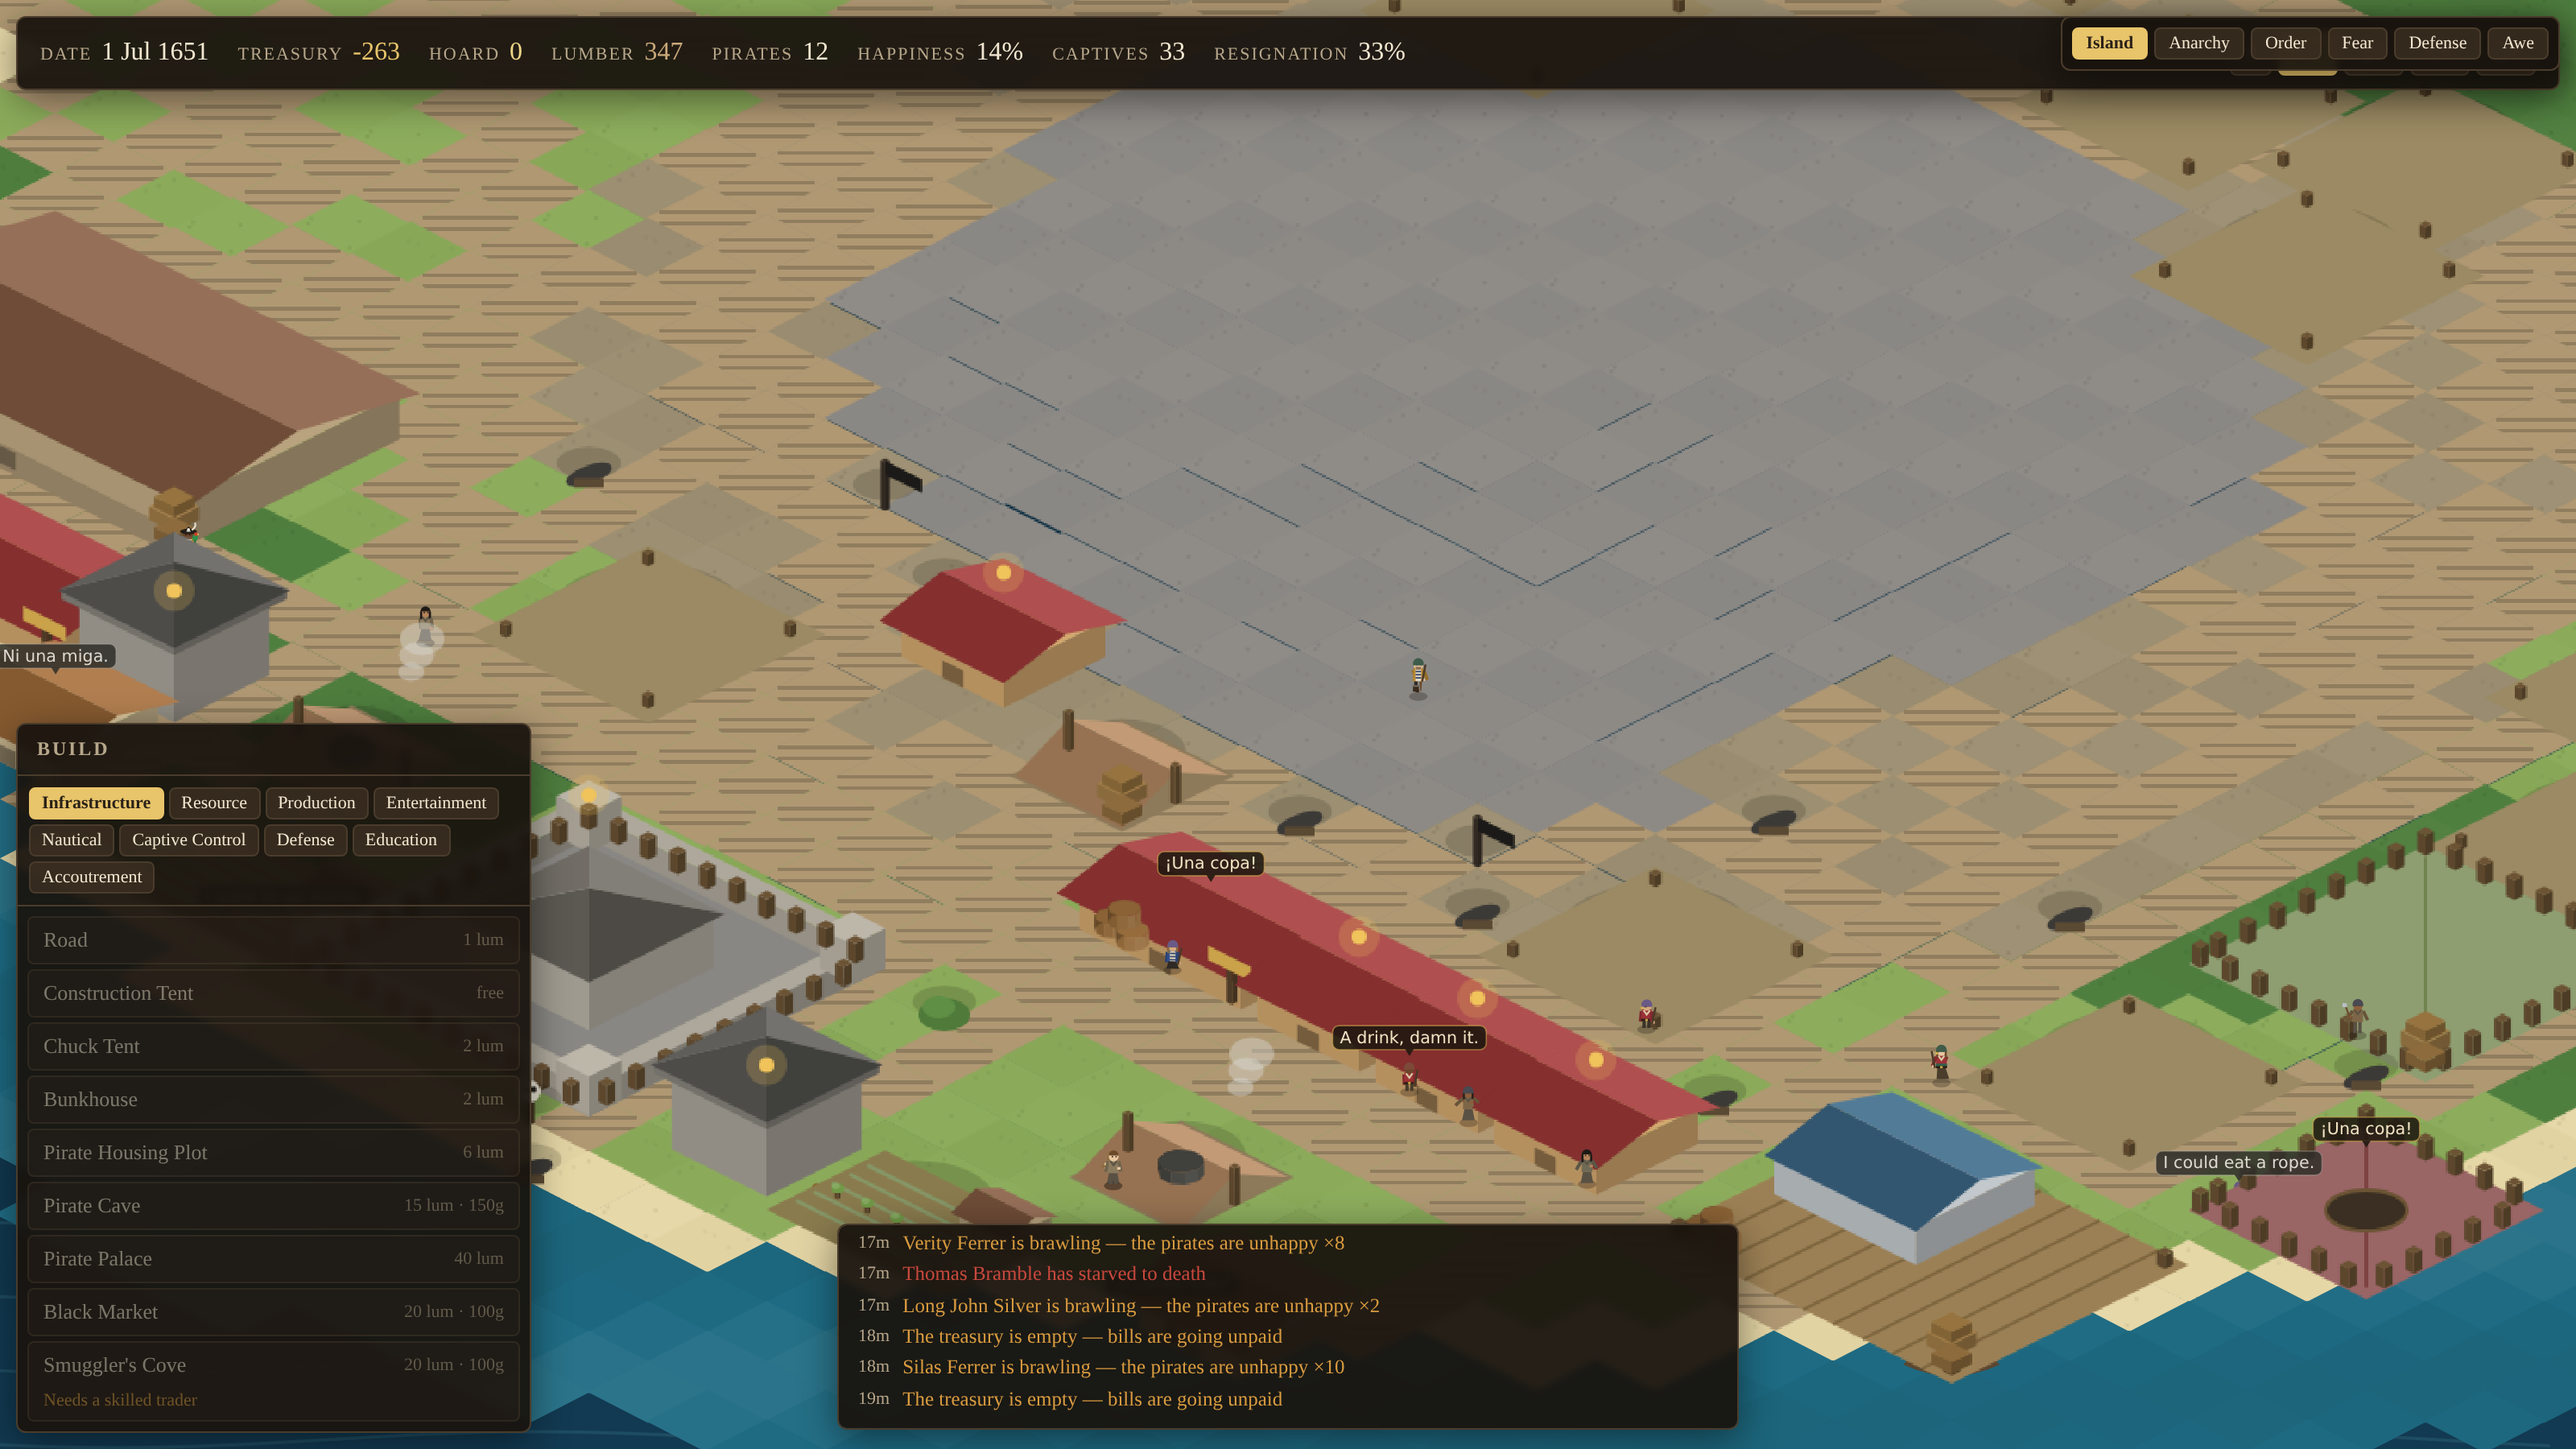
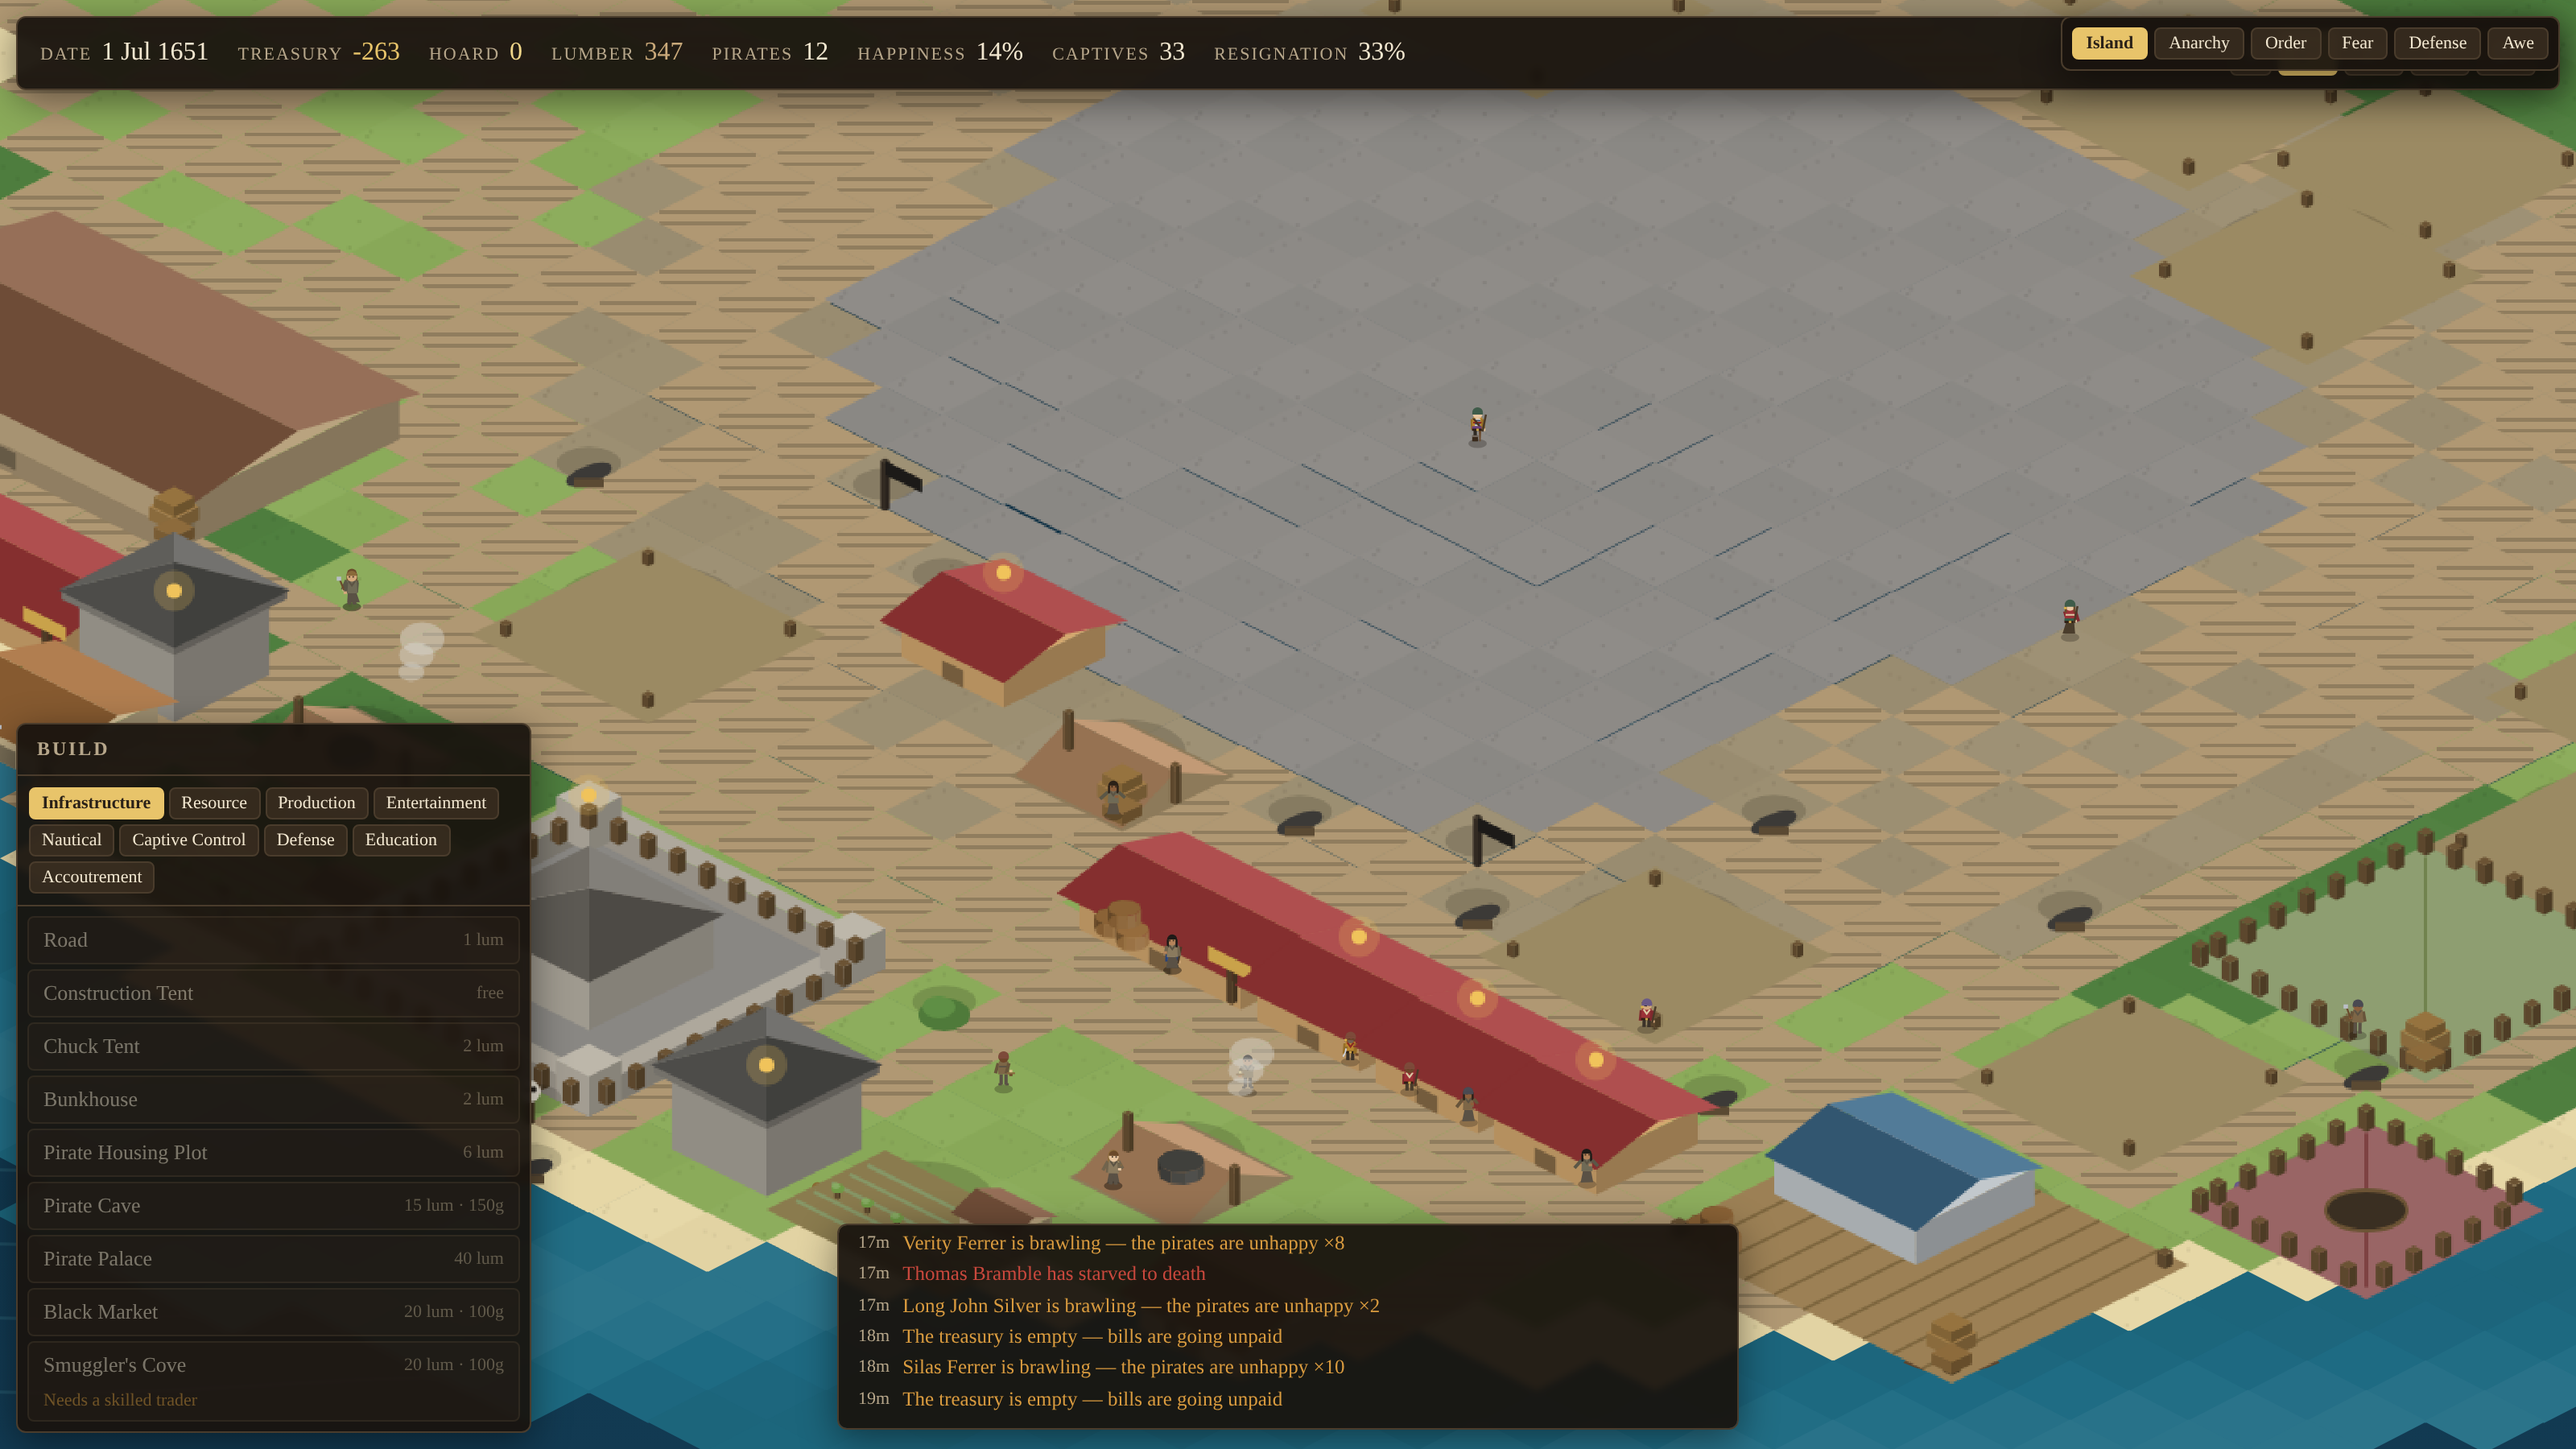
Name the game after the Brethren of the Coast
Reimplementing a game's systems from published descriptions is fair
enough. Wearing its trademark as your title is a different question, and
Tropico is a live mark: it was the page title, the heading on the start
screen and the name in the browser tab.

So the game is The Brethren Coast, after the buccaneer confederation of
Tortuga and Hispaniola, who are seventeenth-century and thoroughly out of
copyright. The mark now appears in one place only - a paragraph of the
README that says plainly what this is a reimplementation of, that it
ships none of that game's code, art, audio or text, and that it is not
affiliated with or endorsed by anybody connected to it.

The directory and the URL still say tropico2 on purpose, so that every
link already out there keeps working.

diff --git a/index.html b/index.html
@@ -6,10 +6,10 @@
       name="viewport"
       content="width=device-width, initial-scale=1.0, maximum-scale=1.0, user-scalable=no"
     />
-    <title>Tropico 2: Pirate Cove</title>
+    <title>The Brethren Coast</title>
     <meta
       name="description"
-      content="A faithful browser reimplementation of Tropico 2: Pirate Cove — run a pirate haven where the pirates want anarchy and the captives need order."
+      content="Run a buccaneer haven in 1650, where the pirates want anarchy and the captives need order and both live on the same island."
     />
     <link
       rel="icon"

diff --git a/src/ui/start-screen.ts b/src/ui/start-screen.ts
@@ -129,7 +129,7 @@ export class StartScreen {
     this.root.innerHTML = "";
 
     const title = el("h1");
-    title.textContent = "Tropico 2: Pirate Cove";
+    title.textContent = "The Brethren Coast";
     const blurb = el("p", "tagline");
     blurb.textContent =
       "Your pirates want anarchy. Your captives need order. They live on the same island.";

diff --git a/README.md b/README.md
@@ -1,4 +1,4 @@
-# tropico2
+# The Brethren Coast
 
 > A pirate haven where the pirates want anarchy and the captives need order,
 > and both live on the same island. No install, no assets, no server — the
@@ -9,8 +9,14 @@
 [![TypeScript strict](https://img.shields.io/badge/typescript-strict-blue)](tsconfig.app.json)
 [![License: MIT](https://img.shields.io/badge/license-MIT-green)](LICENSE)
 
-A browser reimplementation of **Tropico 2: Pirate Cove** (Frog City Software, 2003) — the odd one out of the Tropico series, and the only city builder whose
-core loop is managing two populations that want opposite things.
+An isometric city builder set on a buccaneer island in 1650, in the browser,
+with no install and no assets — the whole world is computed from one seed.
+
+It is an independent reimplementation of the systems of _Tropico 2: Pirate Cove_
+(Frog City Software, 2003), which remains the only city builder whose core loop
+is managing two populations that want opposite things. Written from published
+descriptions of how that game worked. Not affiliated with, endorsed by or
+connected to its rights holders, and it contains none of its assets.
 
 ![The game: a pirate settlement on a generated island, with the build menu open and the event log reporting brawls](docs/screenshot.png)
 
@@ -362,6 +368,12 @@ casinos are how the number climbs — and all of them are paid for by going to s
 
 ## Licence
 
-MIT. _Tropico 2: Pirate Cove_ is the work of Frog City Software and PopTop
-Software; this is an independent reimplementation of its systems, written from
-published descriptions of how the game worked, and contains none of its assets.
+The code here is MIT.
+
+_Tropico 2: Pirate Cove_ is the work of Frog City Software and PopTop Software,
+and "Tropico" is a trademark of its current rights holders. This project is an
+independent reimplementation of that game's **systems**, written from published
+descriptions of how it worked. It ships none of its code, art, audio or text, it
+is not affiliated with or endorsed by anyone connected to it, and it is named
+after the Brethren of the Coast — the buccaneer confederation of Tortuga and
+Hispaniola, who are long out of copyright.
